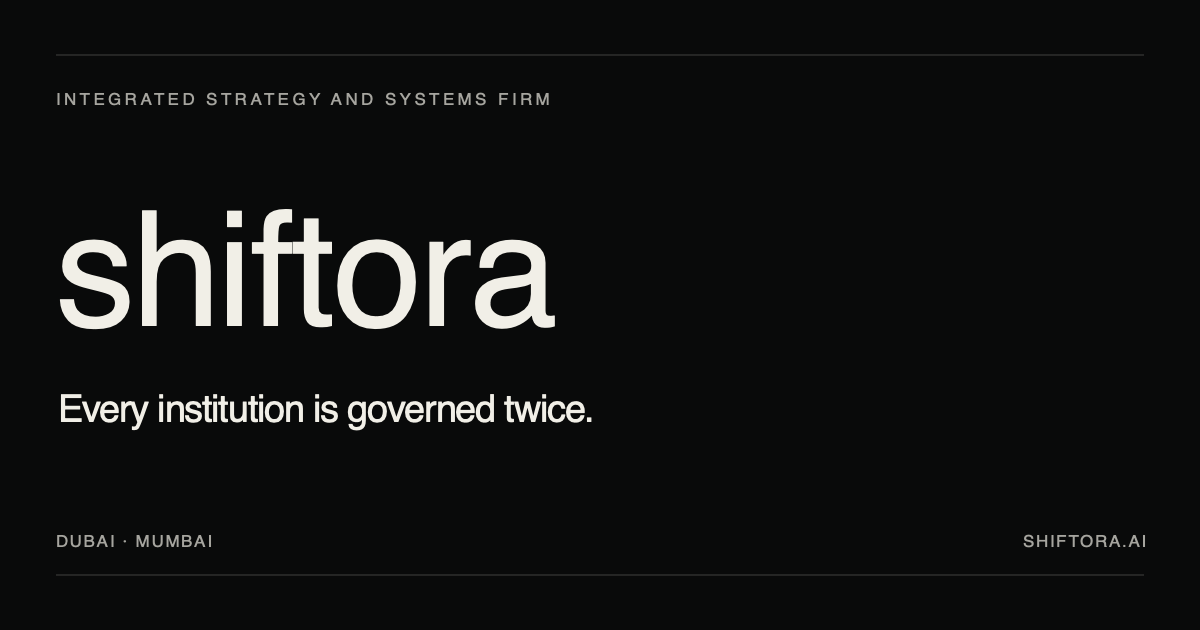
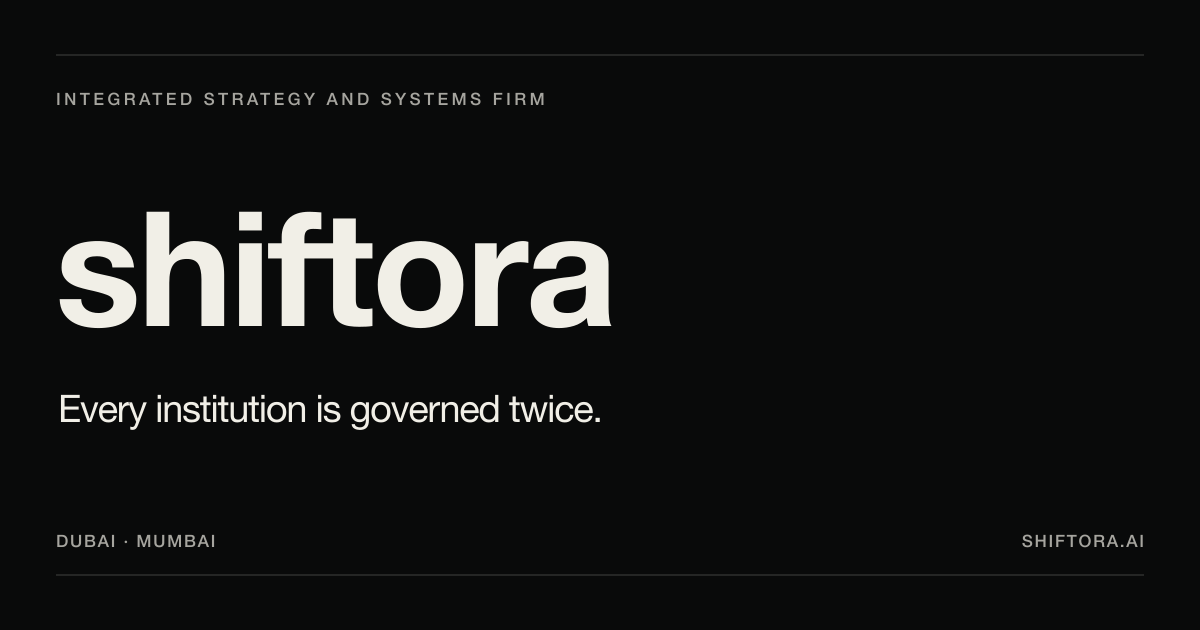
Prepare the approved system-font release

diff --git a/src/index.css b/src/index.css
@@ -1,7 +1,7 @@
 :root {
   color: #11110f;
   background: #eeece5;
-  font-family: 'Söhne', 'Helvetica Neue', Helvetica, Arial, sans-serif;
+  font-family: 'Helvetica Neue', Helvetica, Arial, sans-serif;
   font-synthesis: none;
   text-rendering: optimizeLegibility;
   -webkit-font-smoothing: antialiased;
@@ -12,8 +12,8 @@
   --night-text: #f1efe7;
   --night-muted: #a6a59f;
   --night-line: rgba(241, 239, 231, 0.24);
-  --display: 'Alliance No. 2', 'Helvetica Neue', Helvetica, Arial, sans-serif;
-  --text: 'Söhne', 'Helvetica Neue', Helvetica, Arial, sans-serif;
+  --display: 'Helvetica Neue', Helvetica, Arial, sans-serif;
+  --text: 'Helvetica Neue', Helvetica, Arial, sans-serif;
   --gutter: clamp(1.25rem, 3.5vw, 4.75rem);
   --firm-gutter: clamp(1.25rem, 3.5vw, 1.455rem);
   --firm-header-height: 6.7125rem;

diff --git a/FONTS.md b/FONTS.md
@@ -1,50 +1,23 @@
-# Shiftora type assets
+# Shiftora typography
 
-The rebrand specifies two licensed commercial families:
+The approved visual master is the rendering reviewed in the 665 × 767 Codex browser view. That
+view resolves to **Helvetica Neue**, so the production CSS names Helvetica Neue explicitly for both
+display and text roles:
 
-- **Alliance No. 2** for the Shiftora wordmark and major display type. License it through
-  [MyFonts](https://www.myfonts.com/collections/alliance-font-degarism-studio). The family page
-  includes the Alliance No. 2 Regular, Medium, and Bold styles required here.
-- **Söhne** for paragraphs, navigation, labels, and supporting type. License it from
-  [Klim Type Foundry](https://klim.co.nz/fonts/soehne/). The corresponding styles are Söhne Buch
-  (400) and Söhne Kräftig (500).
+```css
+font-family: 'Helvetica Neue', Helvetica, Arial, sans-serif;
+```
 
-The repository does not contain either licensed font file. The current CSS names the intended
-families and falls back to Helvetica Neue/Helvetica/Arial, so the site remains usable without
-shipping unlicensed assets.
+No commercial font files are bundled or distributed by this repository. Apple platforms render the
+master with the operating-system Helvetica Neue installation. Platforms without Helvetica Neue use
+Helvetica or Arial as the declared compatibility fallbacks.
 
-Before production release, obtain webfont licenses and WOFF2 files from the respective foundries.
-Place the files in `public/fonts/`, add the matching `@font-face` declarations at the top of
-`src/index.css`, and use `font-display: swap`. Preserve the existing family names in the CSS:
-`Alliance No. 2` and `Söhne`.
+The release policy rejects undeclared webfonts and rejects references to Söhne or Alliance No. 2
+unless a future, separately approved change introduces properly licensed assets. It also verifies
+that representative wordmark, display, paragraph, and label roles resolve to the approved first
+family and that the committed brand sources and PNG outputs match their provenance record.
 
-Files under `/fonts/` use a one-day revalidation policy rather than year-long immutable caching,
-because the release process does not require content-hashed font filenames. Do not change the policy
-to `immutable` unless filename versioning is enforced at the same time.
-
-Required web weights are Söhne 400/500 and Alliance No. 2 400/500/700. A licensed variable file
-may cover the range. Convert all lettering in `scripts/og-image.svg`, `scripts/logo-512.svg`, and
-`public/favicon.svg` to paths using the licensed desktop faces, then regenerate the PNG assets.
-External SVGs cannot inherit the page's webfonts, and a bitmap rendered from unresolved SVG text can
-silently preserve the development fallback.
-
-After the three SVGs contain licensed outlines, run `npm run brand:build-assets`. The command refuses
-live text, deterministically renders `public/og-image.png` and `public/logo-512.png` from their SVG
-sources, then records SHA-256 digests of the sources, outputs, generator, and Sharp renderer version
-in `brand-assets.json`. Commit the manifest with the assets. The release gate fails if a source,
-output, generator, or renderer version changes afterward, so an old fallback-rendered PNG cannot be
-blessed merely by recording whatever file happens to exist.
-
-Do not substitute similarly named downloads from unofficial font sites.
-
-Run `npm run verify:release` after installing the fonts. That check intentionally fails while the
-licensed faces are absent, if a face omits `font-display: swap`, if a declared WOFF2 file is missing,
-if any required family-and-weight combination does not load in the browser, or if the
-outlined-source/raster digest record is absent or stale. The browser check explicitly loads Söhne
-400/500 and Alliance No. 2 400/500/700 before evaluating the 22 route-and-viewport cases; it does
-not infer success merely because a fallback rendered the page. It also verifies the computed family
-and weight on representative display, paragraph, label, and wordmark elements.
-
-The automated checks cannot establish ownership of a font license. Retain the foundry invoices or
-agreements that cover web use and desktop conversion to outlines, and record a human license sign-off
-with the release evidence.
+Run `npm run brand:build-assets` on the approved design machine after changing a brand SVG. Run
+`npm run verify:release` before publication. Railway runs `npm run verify:deploy`, which repeats the
+production-safe build, security, dependency, typography, and brand-asset checks without requiring a
+desktop browser inside the build container.

diff --git a/README.md b/README.md
@@ -37,26 +37,23 @@ dates are available.
 npm run verify:visual
 ```
 
-The visual check opens the production build in 22 route-and-viewport combinations from 320 through
-1440 pixels, including both sides of the 600px, 1100px, and 1279/1280px layout transitions and the
-branded 404 at mobile and desktop sizes. It verifies page structure, horizontal fit, metadata,
-indexing controls, hydration, browser errors, minimum mobile target sizes, heading headroom, and
-continuity of the responsive type scale, then saves full-page review images to a temporary directory.
+The visual check opens the production build across a route-and-viewport matrix from 320 through
+2560 pixels, including both sides of each layout transition, the locked 665 × 767 Firm reference,
+and the branded 404 at mobile and desktop sizes. It verifies page structure, horizontal fit, metadata,
+indexing controls, hydration, browser errors, minimum mobile target sizes, heading headroom, the
+Firm typography lock, and continuity of the responsive Engagements scale, then saves full-page
+review images to a temporary directory.
 Set `SHIFTORA_CHROME_PATH` if Chrome is installed somewhere other than the standard macOS location.
 
 ```sh
 npm run verify:release
 ```
 
-The release check additionally runs the full dependency audit and requires properly licensed,
-self-hosted Söhne and Alliance No. 2 webfonts at every weight used by the design. Each face must use
-`font-display: swap`, and the release-mode visual suite force-loads every required face and verifies
-the computed family and weight of representative display, body, label, and wordmark elements so
-fallback or selector regressions cannot pass. The check also requires outlined brand lettering plus
-deterministic social/organization PNGs and a provenance record binding the source, output, generator,
-and renderer version. Licensing itself requires retained human evidence; the automated gate proves
-technical integrity, not ownership of rights. It intentionally fails until those assets are added.
-See [FONTS.md](./FONTS.md).
+The release check additionally runs the full dependency audit, verifies the approved Helvetica
+Neue-first system stack on representative display, body, label, and wordmark elements, and rejects
+unapproved or undeclared webfonts. It also requires deterministic social/organization PNGs and a
+provenance record binding the source, output, generator, and renderer version. See
+[FONTS.md](./FONTS.md).
 
 Do not deploy this branch while `npm run verify:release` is failing.
 

diff --git a/AGENTS.md b/AGENTS.md
@@ -56,9 +56,11 @@ technical services. Preserve that distinction in every change.
 
 ## Visual system
 
-- Alliance No. 2 is the display face; Söhne is the text face.
-- Both are commercial fonts. Use properly licensed, self-hosted WOFF2 files only. Helvetica is a
-  development fallback, not an approved substitute.
+- Helvetica Neue is the approved display and text master because it is the face used by the accepted
+  665 × 767 reference rendering. Preserve the declared Helvetica Neue, Helvetica, Arial, sans-serif
+  order; do not bundle the macOS font file.
+- Söhne or Alliance No. 2 may be introduced only through a separately approved typography change
+  with properly licensed, self-hosted webfont assets.
 - Page 1 uses warm paper; Page 2 uses near-black ink. Preserve the relationship between thesis and
   field record.
 - Prefer typography, scale, negative space, and rules. Do not add cards, pills, icons, gradients,
@@ -78,7 +80,8 @@ technical services. Preserve that distinction in every change.
   inspect the generated 390px and 1440px screenshots rather than trusting fit metrics alone. The
   check must continue to cover both sides of every responsive boundary and preserve its metadata,
   landmark, heading-order, unique-id, labeled-link, and skip-navigation checks.
-- Run `npm run verify:release` before production deployment. It must not pass until the licensed
-  Söhne and Alliance No. 2 assets are installed and declared.
+- Run `npm run verify:release` before production deployment. It verifies the approved system-font
+  stack, brand-asset provenance, the complete visual matrix, and the production build.
 - Keep the page copy, metadata, `llms.txt`, social assets, and sitemap aligned.
-- The production site must not be deployed from a build that only uses fallback type.
+- The production site must preserve the accepted Helvetica Neue-first rendering and its declared
+  cross-platform Helvetica/Arial compatibility fallbacks.
